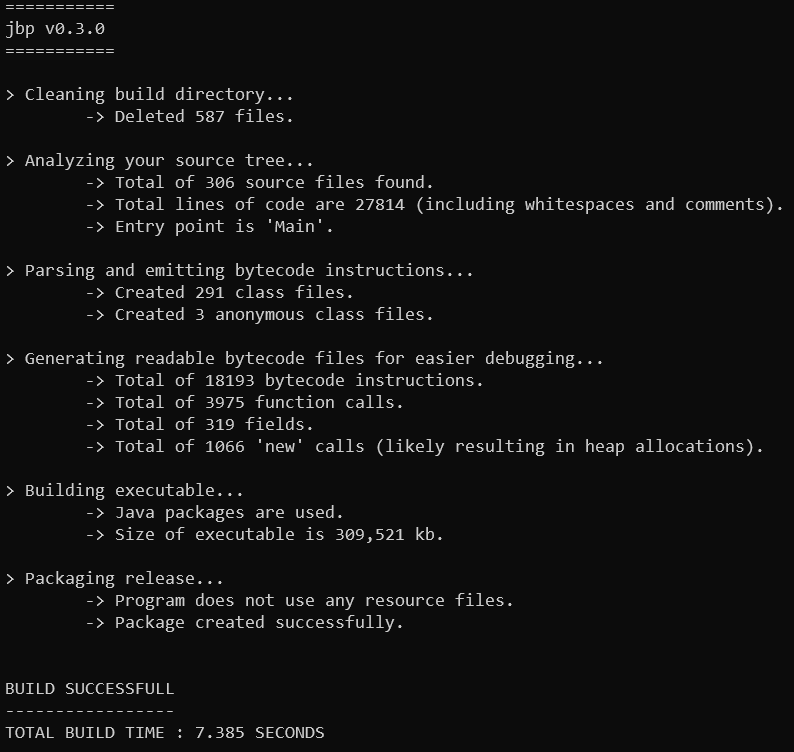
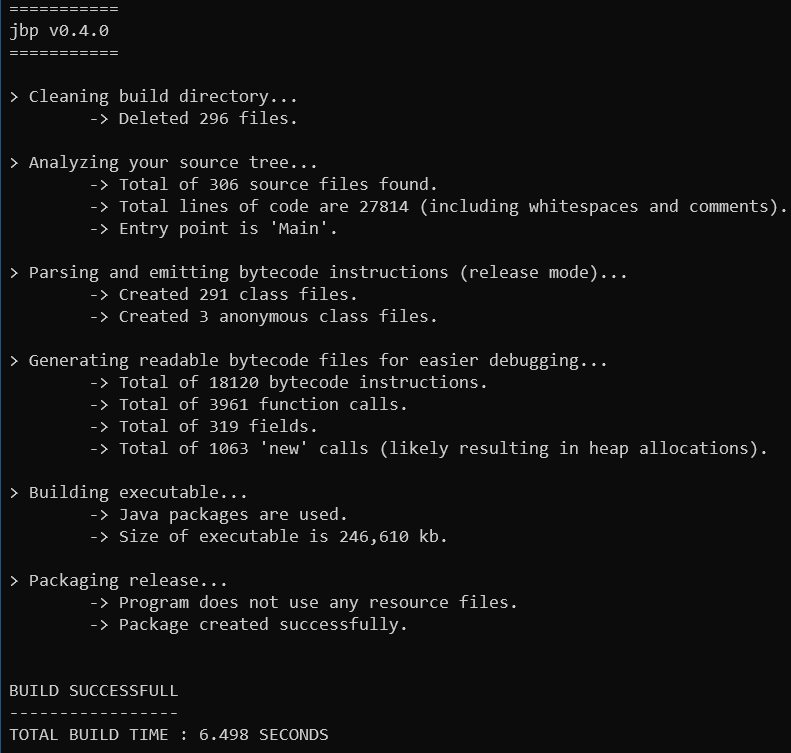
release 0.4.0, release and debug mode

diff --git a/jbp.java b/jbp.java
@@ -33,6 +33,7 @@ public final class jbp {
 
     private static long startNanoTime;
     private static String entryPoint = null;
+    private static boolean compileWithDebugInfo = true;
 
     private static File[] listAllFiles(final File dir) throws IOException {
         assert dir != null;
@@ -436,7 +437,7 @@ public final class jbp {
 
     private static void createClassFiles() {
         try {
-            System.out.println("> Parsing and emitting bytecode instructions...");
+            System.out.printf("> Parsing and emitting bytecode instructions (%s)...\n", compileWithDebugInfo ? "debug mode" : "release mode");
 
             final char classpathSeparator = System.getProperty("os.name").toLowerCase().contains("win") ? ';' : ':';
             int numberOfClassFiles = 0;
@@ -466,10 +467,11 @@ public final class jbp {
             // For now we print a maximum number of 5 errors (-Xmaxerrs 5)
             // We also disable warning (-nowarn) because they are hardly every useful (execpt deprecated warnings)
             {
+                final String debugFlag = compileWithDebugInfo ? "-g" : "-g:none";
                 if (classpath.toString().isEmpty()) { // we have NO libraries
-                    result = execShellCommand(null, null, "javac", "@sources.txt", "-Xdiags:verbose", "-Xlint:deprecation", "-Xmaxerrs", "5", "-nowarn", "-g", "-d", "build/classes");
+                    result = execShellCommand(null, null, "javac", "@sources.txt", "-Xdiags:verbose", "-Xlint:deprecation", "-Xmaxerrs", "5", "-nowarn", debugFlag, "-d", "build/classes");
                 } else { // we have libraries; need to specify classpath now
-                    result = execShellCommand(null, null, "javac", "-classpath", classpath.toString(), "@sources.txt", "-Xdiags:verbose", "-Xlint:deprecation", "-Xmaxerrs", "5", "-nowarn", "-g", "-d", "build/classes");
+                    result = execShellCommand(null, null, "javac", "-classpath", classpath.toString(), "@sources.txt", "-Xdiags:verbose", "-Xlint:deprecation", "-Xmaxerrs", "5", "-nowarn", debugFlag, "-d", "build/classes");
                 }
             }
             assert result != null;
@@ -609,14 +611,27 @@ public final class jbp {
     }
 
     public static void main(final String[] args) {
-        if (args.length != 0) {
-            System.out.println("Program does not take any arguments.");
-            return;
+        if (args.length == 0) {
+            compileWithDebugInfo = true;
+        } else if (args.length == 1) {
+            final String releaseMode = args[0];
+            if (releaseMode.equals("--debug")) {
+                compileWithDebugInfo = true;
+            } else if (releaseMode.equals("--release")) {
+                compileWithDebugInfo = false;
+            } else {
+                System.out.println("Invalid release mode specified.");
+                System.out.println("Release mode has to be either '--debug' or '--release'");
+                System.exit(-1);
+            }
+        } else {
+            System.out.println("Invalid amount of arguments specified.");
+            System.out.println("Either run with '--debug' or '--release' or omit it to choose debug mode.");
+            System.exit(-1);
         }
-        assert args.length == 0;
 
         System.out.println("===========");
-        System.out.println("jbp v0.3.0");
+        System.out.println("jbp v0.4.0");
         System.out.println("===========");
         System.out.println();
         startNanoTime = System.nanoTime();

diff --git a/README.md b/README.md
@@ -1,5 +1,7 @@
 # jbp
 
+**(NOTE: This program is still alpha software, so it might break for stupid reasons.)**
+
 jbp (just build please) is as the name suggests a build tool. It is designed to
 compile java projects in an easy way that just works.
 
@@ -28,31 +30,23 @@ That is all. After that your project will build.
 ![output](image.PNG)
 
 
-To be a bit more precise it will do the following things for you:
-
-1. Create a build directory (or clean already existing one)
-2. Compile all the .java files inside the 'src' directory (build/classes)
-3. Calls 'javap' to generate readable bytecode files for easier debugging (build/bytecode)
-4. Builds the executable (.jar) (build/release)
-
-When you have dependecies you just need to create a 'libs' directory inside your project root folder.
-'jbp' will add them to the classpath and move them into the 'build/release' directory so your .jar will
-find it when being executed.
-
-In case you have other resources (like images or config files) you can create a 'res' directory and put them
-in there.
-
-'jbp' will always clean the build directory and will NOT do any incremental build. The reason for that is that I have been
-screwed many times by incremental builds in the past where I was not running the most recent version.
-Therefore this tool will make a fresh build from scratch everytime so you can be sure there isn't any garbage left from
-the previous build.
+You can also specify whether you want to include debug information when compiling
+by either using '--debug' or '--release'. If you omit it debug information will
+be included.
 
 If you want to run/test your program, a nice way is to execute the following command sequence:
 ```
 pushd build\release && java -jar Program.jar && popd
 ```
 
-**(NOTE: This program is still alpha software, so it might break for stupid reasons.)**
+If you wish to compile with libraries, simply add a 'libs' directory in your root folder and put
+all your libraries in there.
+If you have other resource files (like images or config files) simply create a 'res' directory.
+
+'jbp' will always clean the build directory and will NOT do any incremental build. The reason for that is that I have been
+screwed many times by incremental builds in the past where I was not running the most recent version.
+Therefore this tool will make a fresh build from scratch everytime so you can be sure there isn't any garbage left from
+the previous build.
 
 ## License
 
